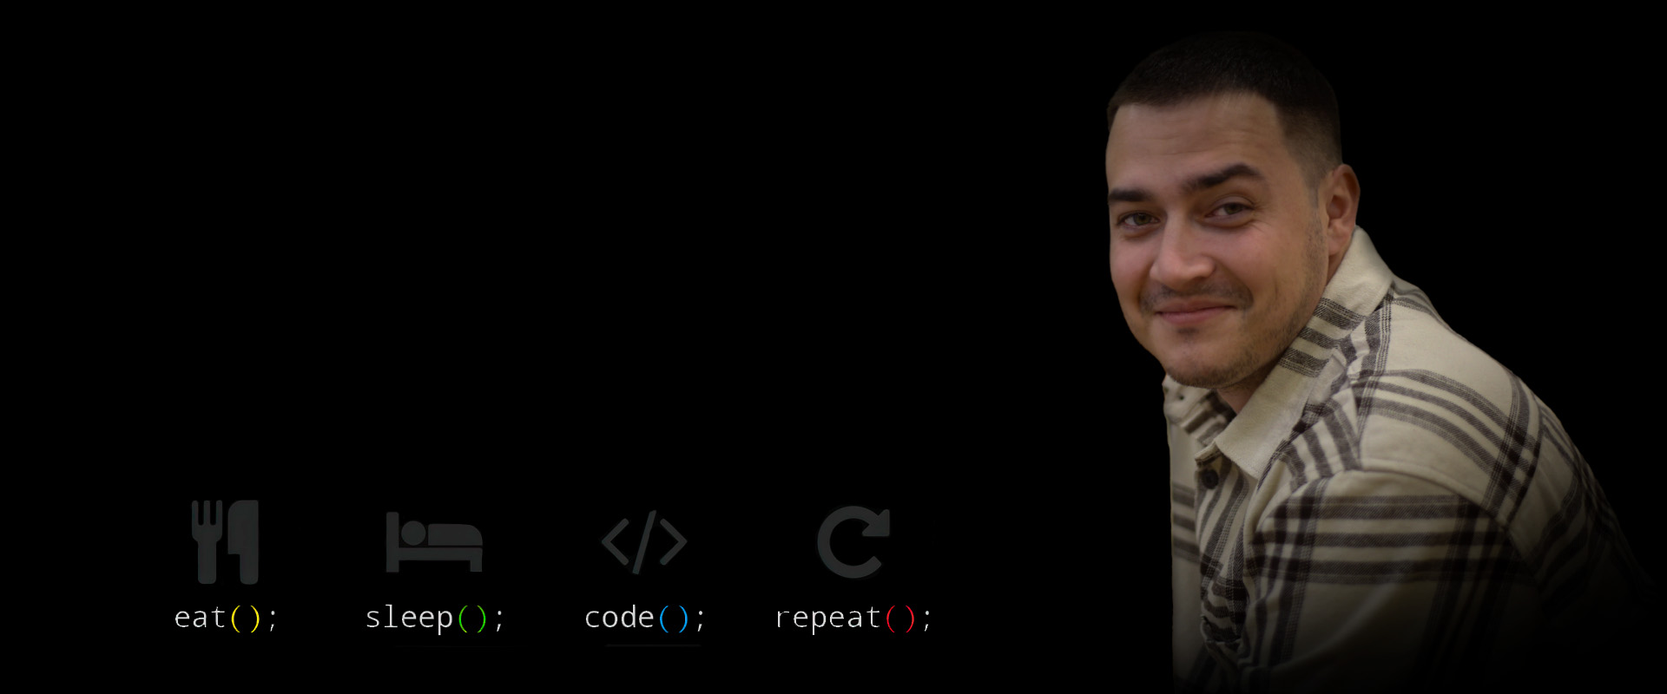
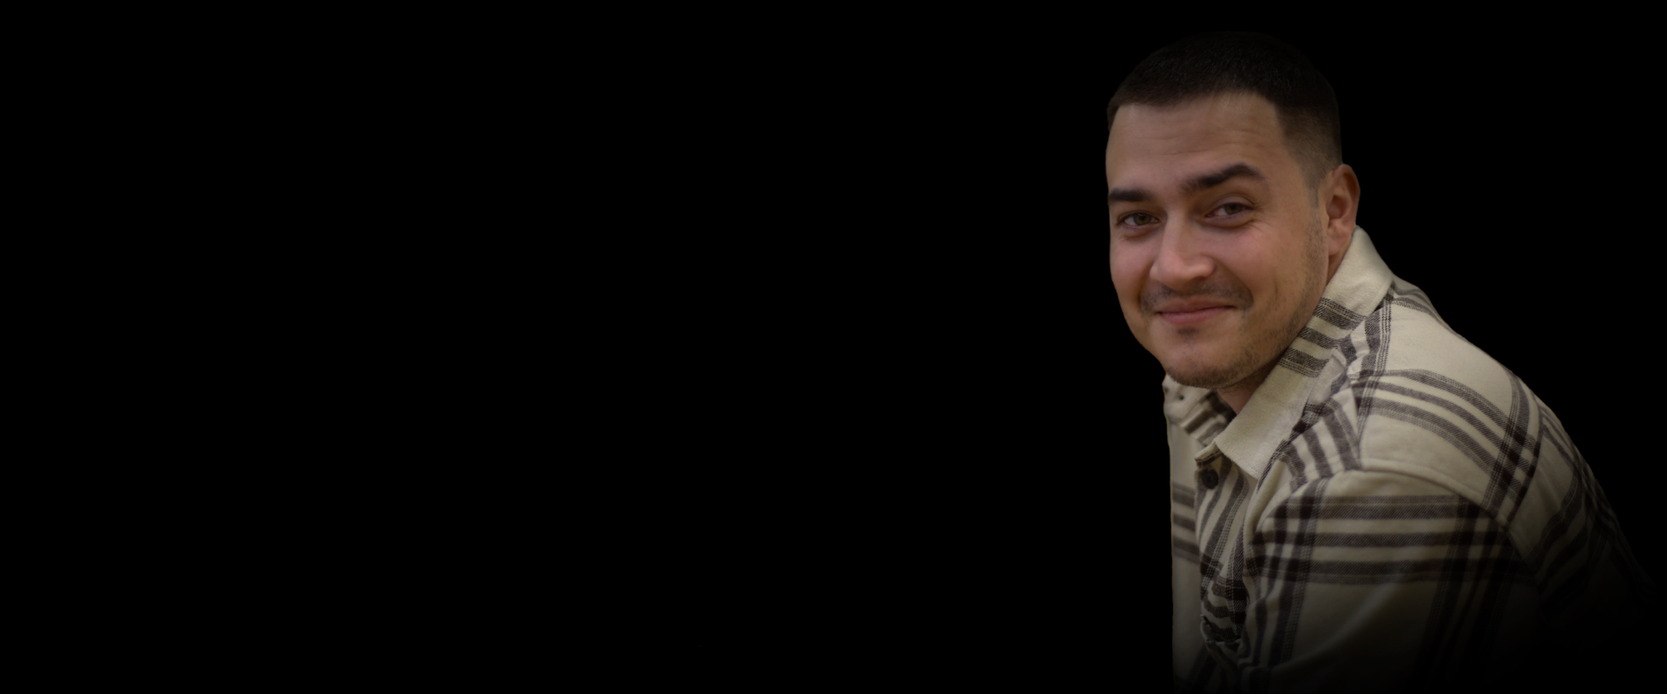
step one+ promo updated

diff --git a/dist/css/style.min.css b/dist/css/style.min.css
@@ -4,4 +4,4 @@
  * Copyright 2011-2019 Twitter, Inc.
  * Licensed under MIT (https://github.com/twbs/bootstrap/blob/master/LICENSE)
  * Forked from Normalize.css, licensed MIT (https://github.com/necolas/normalize.css/blob/master/LICENSE.md)
- */@import url(https://fonts.googleapis.com/css2?family=Poppins:wght@500;700&display=swap);*,::after,::before{box-sizing:border-box}html{font-family:sans-serif;line-height:1.15;-webkit-text-size-adjust:100%;-webkit-tap-highlight-color:rgba(0,0,0,0)}article,aside,figcaption,figure,footer,header,hgroup,main,nav,section{display:block}body{margin:0;font-family:-apple-system,BlinkMacSystemFont,"Segoe UI",Roboto,"Helvetica Neue",Arial,"Noto Sans",sans-serif,"Apple Color Emoji","Segoe UI Emoji","Segoe UI Symbol","Noto Color Emoji";font-size:1rem;font-weight:400;line-height:1.5;color:#212529;text-align:left;background-color:#fff}[tabindex="-1"]:focus{outline:0!important}hr{box-sizing:content-box;height:0;overflow:visible}h1,h2,h3,h4,h5,h6{margin-top:0;margin-bottom:.5rem}p{margin-top:0;margin-bottom:1rem}abbr[data-original-title],abbr[title]{text-decoration:underline;-webkit-text-decoration:underline dotted;text-decoration:underline dotted;cursor:help;border-bottom:0;-webkit-text-decoration-skip-ink:none;text-decoration-skip-ink:none}address{margin-bottom:1rem;font-style:normal;line-height:inherit}dl,ol,ul{margin-top:0;margin-bottom:1rem}ol ol,ol ul,ul ol,ul ul{margin-bottom:0}dt{font-weight:700}dd{margin-bottom:.5rem;margin-left:0}blockquote{margin:0 0 1rem}b,strong{font-weight:bolder}small{font-size:80%}sub,sup{position:relative;font-size:75%;line-height:0;vertical-align:baseline}sub{bottom:-.25em}sup{top:-.5em}a{color:#007bff;text-decoration:none;background-color:rgba(0,0,0,0)}a:hover{color:#0056b3;text-decoration:underline}a:not([href]):not([tabindex]){color:inherit;text-decoration:none}a:not([href]):not([tabindex]):focus,a:not([href]):not([tabindex]):hover{color:inherit;text-decoration:none}a:not([href]):not([tabindex]):focus{outline:0}code,kbd,pre,samp{font-family:SFMono-Regular,Menlo,Monaco,Consolas,"Liberation Mono","Courier New",monospace;font-size:1em}pre{margin-top:0;margin-bottom:1rem;overflow:auto}figure{margin:0 0 1rem}img{vertical-align:middle;border-style:none}svg{overflow:hidden;vertical-align:middle}table{border-collapse:collapse}caption{padding-top:.75rem;padding-bottom:.75rem;color:#6c757d;text-align:left;caption-side:bottom}th{text-align:inherit}label{display:inline-block;margin-bottom:.5rem}button{border-radius:0}button:focus{outline:1px dotted;outline:5px auto -webkit-focus-ring-color}button,input,optgroup,select,textarea{margin:0;font-family:inherit;font-size:inherit;line-height:inherit}button,input{overflow:visible}button,select{text-transform:none}select{word-wrap:normal}[type=button],[type=reset],[type=submit],button{-webkit-appearance:button}[type=button]:not(:disabled),[type=reset]:not(:disabled),[type=submit]:not(:disabled),button:not(:disabled){cursor:pointer}[type=button]::-moz-focus-inner,[type=reset]::-moz-focus-inner,[type=submit]::-moz-focus-inner,button::-moz-focus-inner{padding:0;border-style:none}input[type=checkbox],input[type=radio]{box-sizing:border-box;padding:0}input[type=date],input[type=datetime-local],input[type=month],input[type=time]{-webkit-appearance:listbox}textarea{overflow:auto;resize:vertical}fieldset{min-width:0;padding:0;margin:0;border:0}legend{display:block;width:100%;max-width:100%;padding:0;margin-bottom:.5rem;font-size:1.5rem;line-height:inherit;color:inherit;white-space:normal}progress{vertical-align:baseline}[type=number]::-webkit-inner-spin-button,[type=number]::-webkit-outer-spin-button{height:auto}[type=search]{outline-offset:-2px;-webkit-appearance:none}[type=search]::-webkit-search-decoration{-webkit-appearance:none}::-webkit-file-upload-button{font:inherit;-webkit-appearance:button}output{display:inline-block}summary{display:list-item;cursor:pointer}template{display:none}[hidden]{display:none!important}*{font-family:Poppins,sans-serif;margin:0;padding:0;box-sizing:border-box}.container{width:1140px;margin:0 auto}.promo{position:relative;min-height:100vh;background:url(../../img/main_bg.jpg) center 50%/cover no-repeat;padding-top:206px;z-index:1}.promo_subtitle{position:relative;z-index:1}.promo_subtitle::before{content:"";position:absolute;border-radius:100%;width:36px;height:36px;background:#ffa501;z-index:-1;top:-5px;left:-12px}.promo__btns{margin-top:25px;width:248px;display:flex;justify-content:space-between;align-items:center}.promo__link{display:block;font-weight:700;font-size:14px;color:#111010}.promo__link:hover{color:#111010;text-decoration:none}.promo__link_white{color:#fff}.promo__link_white:hover{color:#fff;text-decoration:none}.title{font-style:normal;font-weight:700;font-size:36px;line-height:60px}.title_fz16px{display:block;margin-left:10px;font-size:16px;line-height:24px;color:#fff}.title_fz48px{margin-top:9px;width:532px;font-size:48px;line-height:60px;color:#fffcfc}.btn{width:135px;height:45px;background:#ffa501;box-shadow:0 4px 4px rgba(0,0,0,.15);padding:12px 25px}.sidepanel-block{position:fixed;z-index:2;top:226px;left:50px;display:flex;flex-direction:column;justify-content:space-between;align-items:center;height:338px}.sidepanel-block__divider{height:70px;width:2px;background-color:#fff}.sidepanel-block__text{color:#fff;height:150px;width:25px;font-weight:700;font-size:16px;margin-top:10px}.sidepanel-block__text span{display:block;width:150px;transform:rotate(-90deg) translate(-30%,-260%)}
+ */@import url(https://fonts.googleapis.com/css2?family=Poppins:wght@500;700&display=swap);*,::after,::before{box-sizing:border-box}html{font-family:sans-serif;line-height:1.15;-webkit-text-size-adjust:100%;-webkit-tap-highlight-color:rgba(0,0,0,0)}article,aside,figcaption,figure,footer,header,hgroup,main,nav,section{display:block}body{margin:0;font-family:-apple-system,BlinkMacSystemFont,"Segoe UI",Roboto,"Helvetica Neue",Arial,"Noto Sans",sans-serif,"Apple Color Emoji","Segoe UI Emoji","Segoe UI Symbol","Noto Color Emoji";font-size:1rem;font-weight:400;line-height:1.5;color:#212529;text-align:left;background-color:#fff}[tabindex="-1"]:focus{outline:0!important}hr{box-sizing:content-box;height:0;overflow:visible}h1,h2,h3,h4,h5,h6{margin-top:0;margin-bottom:.5rem}p{margin-top:0;margin-bottom:1rem}abbr[data-original-title],abbr[title]{text-decoration:underline;-webkit-text-decoration:underline dotted;text-decoration:underline dotted;cursor:help;border-bottom:0;-webkit-text-decoration-skip-ink:none;text-decoration-skip-ink:none}address{margin-bottom:1rem;font-style:normal;line-height:inherit}dl,ol,ul{margin-top:0;margin-bottom:1rem}ol ol,ol ul,ul ol,ul ul{margin-bottom:0}dt{font-weight:700}dd{margin-bottom:.5rem;margin-left:0}blockquote{margin:0 0 1rem}b,strong{font-weight:bolder}small{font-size:80%}sub,sup{position:relative;font-size:75%;line-height:0;vertical-align:baseline}sub{bottom:-.25em}sup{top:-.5em}a{color:#007bff;text-decoration:none;background-color:rgba(0,0,0,0)}a:hover{color:#0056b3;text-decoration:underline}a:not([href]):not([tabindex]){color:inherit;text-decoration:none}a:not([href]):not([tabindex]):focus,a:not([href]):not([tabindex]):hover{color:inherit;text-decoration:none}a:not([href]):not([tabindex]):focus{outline:0}code,kbd,pre,samp{font-family:SFMono-Regular,Menlo,Monaco,Consolas,"Liberation Mono","Courier New",monospace;font-size:1em}pre{margin-top:0;margin-bottom:1rem;overflow:auto}figure{margin:0 0 1rem}img{vertical-align:middle;border-style:none}svg{overflow:hidden;vertical-align:middle}table{border-collapse:collapse}caption{padding-top:.75rem;padding-bottom:.75rem;color:#6c757d;text-align:left;caption-side:bottom}th{text-align:inherit}label{display:inline-block;margin-bottom:.5rem}button{border-radius:0}button:focus{outline:1px dotted;outline:5px auto -webkit-focus-ring-color}button,input,optgroup,select,textarea{margin:0;font-family:inherit;font-size:inherit;line-height:inherit}button,input{overflow:visible}button,select{text-transform:none}select{word-wrap:normal}[type=button],[type=reset],[type=submit],button{-webkit-appearance:button}[type=button]:not(:disabled),[type=reset]:not(:disabled),[type=submit]:not(:disabled),button:not(:disabled){cursor:pointer}[type=button]::-moz-focus-inner,[type=reset]::-moz-focus-inner,[type=submit]::-moz-focus-inner,button::-moz-focus-inner{padding:0;border-style:none}input[type=checkbox],input[type=radio]{box-sizing:border-box;padding:0}input[type=date],input[type=datetime-local],input[type=month],input[type=time]{-webkit-appearance:listbox}textarea{overflow:auto;resize:vertical}fieldset{min-width:0;padding:0;margin:0;border:0}legend{display:block;width:100%;max-width:100%;padding:0;margin-bottom:.5rem;font-size:1.5rem;line-height:inherit;color:inherit;white-space:normal}progress{vertical-align:baseline}[type=number]::-webkit-inner-spin-button,[type=number]::-webkit-outer-spin-button{height:auto}[type=search]{outline-offset:-2px;-webkit-appearance:none}[type=search]::-webkit-search-decoration{-webkit-appearance:none}::-webkit-file-upload-button{font:inherit;-webkit-appearance:button}output{display:inline-block}summary{display:list-item;cursor:pointer}template{display:none}[hidden]{display:none!important}*{font-family:Poppins,sans-serif;margin:0;padding:0;box-sizing:border-box}.container{width:1140px;margin:0 auto}.promo{min-height:100vh;position:relative;padding-top:200px;background:url(../../img/main_bg.jpg) no-repeat 50%/cover}.promo__subtitle{position:relative;padding-left:10px;z-index:2}.promo__subtitle:before{content:"";position:absolute;top:-5px;left:0;width:36px;height:36px;background:#ffa501;border-radius:100%;z-index:-1}.promo__btns{margin-top:25px;width:248px;display:flex;justify-content:space-between;align-items:center}.promo__link{font-weight:700;font-size:14px;line-height:21px;color:#fff}.promo__link:hover{color:#fff;text-decoration:none}.promo__shedule{margin-top:135px;width:700px;display:flex;justify-content:space-between}.promo__item{display:flex;flex-direction:column;justify-content:space-between;align-items:center}.promo__img{width:100px;align-items:center}.promo__text{margin-top:15px;color:#fff;text-align:center;font-size:20px}.promo__text .first{color:#ff0}.promo__text .second{color:green}.promo__text .third{color:#00f}.promo__text .four{color:red}.title{font-weight:700;font-size:36px;line-height:24px;color:#fff}.title_fz16px{font-size:16px}.title_fz48px{margin-top:9px;font-size:48px;line-height:60px}.btn{display:block;width:135px;height:45px;background:#ffa501;padding:12px 25px;border-radius:5%}.btn:hover{box-shadow:5px 5px 0 rgba(216,168,8,.3)}.sidepanel{position:fixed;top:230px;left:50px;z-index:2;height:338px;width:24px;display:flex;flex-direction:column;justify-content:space-between;align-items:center}.sidepanel__divider{height:70px;width:2px;background-color:#fff}.sidepanel__text{font-weight:700;font-size:16px;line-height:24px;color:#f2efef;height:148px;width:24px}.sidepanel__text span{display:block;height:24px;width:148px;transform:rotate(-90deg) translate(-40%,-260%)}

diff --git a/dist/index.html b/dist/index.html
@@ -1,1 +1,1 @@
-<!DOCTYPE html><html lang="ru"><head><meta charset="UTF-8"><meta name="viewport" content="width=device-width,initial-scale=1"><meta http-equiv="X-UA-Compatible" content="ie=edge"><title>Portfolio</title><meta name="title" content="Мое портфолио"><meta name="description" content="Здесь вы сможете ознакомиться с моими работами и узнать больше обо мне"><!-- Open Graph / Facebook --><meta property="og:type" content="website"><meta property="og:url" content="https://metatags.io/"><meta property="og:title" content="Мое портфолио"><meta property="og:description" content="Здесь вы сможете ознакомиться с моими работами и узнать больше обо мне"><meta property="og:image" content="https://metatags.io/assets/meta-tags-16a33a6a8531e519cc0936fbba0ad904e52d35f34a46c97a2c9f6f7dd7d336f2.png"><!-- Twitter --><meta property="twitter:card" content="summary_large_image"><meta property="twitter:url" content="https://metatags.io/"><meta property="twitter:title" content="Мое портфолио"><meta property="twitter:description" content="Здесь вы сможете ознакомиться с моими работами и узнать больше обо мне"><meta property="twitter:image" content="https://metatags.io/assets/meta-tags-16a33a6a8531e519cc0936fbba0ad904e52d35f34a46c97a2c9f6f7dd7d336f2.png"><!-- Favicon  --><link rel="apple-touch-icon" sizes="57x57" href="icons/favicon/apple-icon-57x57.png"><link rel="apple-touch-icon" sizes="60x60" href="icons/favicon/apple-icon-60x60.png"><link rel="apple-touch-icon" sizes="72x72" href="icons/favicon/apple-icon-72x72.png"><link rel="apple-touch-icon" sizes="76x76" href="icons/favicon/apple-icon-76x76.png"><link rel="apple-touch-icon" sizes="114x114" href="icons/favicon/apple-icon-114x114.png"><link rel="apple-touch-icon" sizes="120x120" href="icons/favicon/apple-icon-120x120.png"><link rel="apple-touch-icon" sizes="144x144" href="icons/favicon/apple-icon-144x144.png"><link rel="apple-touch-icon" sizes="152x152" href="icons/favicon/apple-icon-152x152.png"><link rel="apple-touch-icon" sizes="180x180" href="icons/favicon/apple-icon-180x180.png"><link rel="icon" type="image/png" sizes="192x192" href="icons/favicon/android-icon-192x192.png"><link rel="icon" type="image/png" sizes="32x32" href="icons/favicon/favicon-32x32.png"><link rel="icon" type="image/png" sizes="96x96" href="icons/favicon/favicon-96x96.png"><link rel="icon" type="image/png" sizes="16x16" href="icons/favicon/favicon-16x16.png"><link rel="manifest" href="/manifest.json"><meta name="msapplication-TileColor" content="#ffffff"><meta name="msapplication-TileImage" content="/ms-icon-144x144.png"><meta name="theme-color" content="#ffffff"><link rel="stylesheet" href="css/style.min.css"></head><body><main><aside class="sidepanel"><div class="sidepanel-block"><a href="#" class="sidepanel-block__links"><img src="icons/social/facebook.svg" alt="facebook"></a><a href="#" class="sidepanel-block__links"><img src="icons/social/instagram.svg" alt="instagram"></a><a href="#" class="sidepanel-block__links"><img src="icons/social/github.svg" alt="github"></a><div class="sidepanel-block__divider"></div><div class="sidepanel-block__text"><span>Социальные сети</span></div></div></aside><section class="promo"><div class="container"><div class="title title_fz16px promo_subtitle">Меня зовут Андрей Савинов</div><h1 class="title title_fz48px">Я web-разработчик из города Ульяновск</h1><div class="promo__btns"><a href="#" class="promo__link btn">Портфолио</a> <a href="#" class="promo__link promo__link_white">Про меня</a></div></div></section></main><script src="js/script.js"></script></body></html>
+<!DOCTYPE html><html lang="ru"><head><meta charset="UTF-8"><meta name="viewport" content="width=device-width,initial-scale=1"><meta http-equiv="X-UA-Compatible" content="ie=edge"><title>Portfolio</title><meta name="title" content="Мое портфолио"><meta name="description" content="Здесь вы сможете ознакомиться с моими работами и узнать больше обо мне"><!-- Open Graph / Facebook --><meta property="og:type" content="website"><meta property="og:url" content="https://metatags.io/"><meta property="og:title" content="Мое портфолио"><meta property="og:description" content="Здесь вы сможете ознакомиться с моими работами и узнать больше обо мне"><meta property="og:image" content="https://metatags.io/assets/meta-tags-16a33a6a8531e519cc0936fbba0ad904e52d35f34a46c97a2c9f6f7dd7d336f2.png"><!-- Twitter --><meta property="twitter:card" content="summary_large_image"><meta property="twitter:url" content="https://metatags.io/"><meta property="twitter:title" content="Мое портфолио"><meta property="twitter:description" content="Здесь вы сможете ознакомиться с моими работами и узнать больше обо мне"><meta property="twitter:image" content="https://metatags.io/assets/meta-tags-16a33a6a8531e519cc0936fbba0ad904e52d35f34a46c97a2c9f6f7dd7d336f2.png"><!-- Favicon  --><link rel="apple-touch-icon" sizes="57x57" href="icons/favicon/apple-icon-57x57.png"><link rel="apple-touch-icon" sizes="60x60" href="icons/favicon/apple-icon-60x60.png"><link rel="apple-touch-icon" sizes="72x72" href="icons/favicon/apple-icon-72x72.png"><link rel="apple-touch-icon" sizes="76x76" href="icons/favicon/apple-icon-76x76.png"><link rel="apple-touch-icon" sizes="114x114" href="icons/favicon/apple-icon-114x114.png"><link rel="apple-touch-icon" sizes="120x120" href="icons/favicon/apple-icon-120x120.png"><link rel="apple-touch-icon" sizes="144x144" href="icons/favicon/apple-icon-144x144.png"><link rel="apple-touch-icon" sizes="152x152" href="icons/favicon/apple-icon-152x152.png"><link rel="apple-touch-icon" sizes="180x180" href="icons/favicon/apple-icon-180x180.png"><link rel="icon" type="image/png" sizes="192x192" href="icons/favicon/android-icon-192x192.png"><link rel="icon" type="image/png" sizes="32x32" href="icons/favicon/favicon-32x32.png"><link rel="icon" type="image/png" sizes="96x96" href="icons/favicon/favicon-96x96.png"><link rel="icon" type="image/png" sizes="16x16" href="icons/favicon/favicon-16x16.png"><link rel="manifest" href="/manifest.json"><meta name="msapplication-TileColor" content="#ffffff"><meta name="msapplication-TileImage" content="/ms-icon-144x144.png"><meta name="theme-color" content="#ffffff"><link rel="stylesheet" href="css/style.min.css"></head><body><main><aside class="sidepanel"><a href="#" class="sidepanel__link"><img src="icons/social/facebook.svg" alt="facebook_icon" class="sidepanel_img"></a><a href="#" class="sidepanel__link"><img src="icons/social/instagram.svg" alt="instagram_icon" class="sidepanel_img"></a><a href="#" class="sidepanel__link"><img src="icons/social/github.svg" alt="github_icon" class="sidepanel_img"></a><div class="sidepanel__divider"></div><div class="sidepanel__text"><span>Социальные сети</span></div></aside><section class="promo"><div class="container"><div class="title title_fz16px promo__subtitle">Меня зовут Андрей Савинов</div><h1 class="title title_fz48px">Я web-разработчик<br>из города Ульяновск</h1><div class="promo__btns"><a href="#" class="promo__link btn">Портфолио</a> <a href="#" class="promo__link">Про меня</a></div><div class="promo__shedule"><div class="promo__item"><img src="icons/promo/first.svg" alt="icon1" class="promo__img"><div class="promo__text">eat <span class="first">( )</span> ;</div></div><div class="promo__item"><img src="icons/promo/second.svg" alt="icon2" class="promo__img"><div class="promo__text">sleep <span class="second">( )</span> ;</div></div><div class="promo__item"><img src="icons/promo/third.svg" alt="icon3" class="promo__img"><div class="promo__text">code <span class="third">( )</span> ;</div></div><div class="promo__item"><img src="icons/promo/four.svg" alt="icon4" class="promo__img"><div class="promo__text">repeat <span class="four">( )</span> ;</div></div></div></div></section></main><script src="js/script.js"></script></body></html>

diff --git a/src/index.html b/src/index.html
@@ -46,32 +46,45 @@
 <body>
     <main>
         <aside class="sidepanel">
-            <div class="sidepanel-block">
-                <a href="#" class="sidepanel-block__links"><img src="icons/social/facebook.svg" alt="facebook"></a>
-                <a href="#" class="sidepanel-block__links"><img src="icons/social/instagram.svg" alt="instagram"></a>
-                <a href="#" class="sidepanel-block__links"><img src="icons/social/github.svg" alt="github"></a>
-                <div class="sidepanel-block__divider"></div>
-                <div class="sidepanel-block__text"> <span>Социальные сети</span></div>
-            </div>
+            <a href="#" class="sidepanel__link"><img src="icons/social/facebook.svg" alt="facebook_icon" class="sidepanel_img"></a>
+            <a href="#" class="sidepanel__link"><img src="icons/social/instagram.svg" alt="instagram_icon" class="sidepanel_img"></a>
+            <a href="#" class="sidepanel__link"><img src="icons/social/github.svg" alt="github_icon" class="sidepanel_img"></a>
+            <div class="sidepanel__divider"></div>
+            <div class="sidepanel__text"><span>Социальные  сети</span></div>
         </aside>
 
         <section class="promo">
             <div class="container">
-                <div class="title title_fz16px promo_subtitle">Меня зовут Андрей Савинов</div>
-                <h1 class="title title_fz48px">Я web-разработчик из города Ульяновск</h1>
+                <div class="title title_fz16px promo__subtitle">
+                    Меня зовут Андрей Савинов
+                </div>
+                <h1 class="title title_fz48px">Я web-разработчик <br>
+                    из города Ульяновск</h1>
                 <div class="promo__btns">
                     <a href="#" class="promo__link btn">Портфолио</a>
-                    <a href="#" class="promo__link promo__link_white">Про меня</a>
+                    <a href="#" class="promo__link">Про меня</a>
                 </div>
-            </div>
+
+                <div class="promo__shedule">
+                    <div class="promo__item">
+                        <img src="icons/promo/first.svg" alt="icon1" class="promo__img">
+                        <div class="promo__text">eat <span class="first">( )</span> ;</div>
+                    </div>
+                    <div class="promo__item">
+                        <img src="icons/promo/second.svg" alt="icon2" class="promo__img">
+                        <div class="promo__text">sleep <span class="second">( )</span> ;</div>
+                    </div>
+                    <div class="promo__item">
+                        <img src="icons/promo/third.svg" alt="icon3" class="promo__img">
+                        <div class="promo__text">code <span class="third">( )</span> ;</div>
+                    </div>
+                    <div class="promo__item">
+                        <img src="icons/promo/four.svg" alt="icon4" class="promo__img">
+                        <div class="promo__text">repeat <span class="four">( )</span> ;</div>
+                    </div>
+                </div>
+            </div> 
         </section>
-
-
-
-
-
-
-
     </main>
 
     <script src="js/script.js"></script>

diff --git a/src/sass/blocks/_promo.scss b/src/sass/blocks/_promo.scss
@@ -1,37 +1,64 @@
 .promo {
-    position: relative;
     min-height: 100vh;
-    background: url('../../img/main_bg.jpg') center 50%/cover no-repeat;
-    padding-top: 206px;
-    z-index: 1;
-    &_subtitle {
+    position: relative;
+    padding-top: 200px;
+    background: url(../../img/main_bg.jpg) no-repeat 50%/cover;
+    &__subtitle {
         position: relative;
-        z-index: 1;
-        @include orange_circle
+        @include orange_circle;
+        padding-left: 10px;
+        z-index: 2;
     }
     &__btns {
         margin-top: 25px;
         width: 248px;
-        display: flex;
+        display: flex; 
         justify-content: space-between;
         align-items: center;
     }
     &__link {
-        display: block;
         font-weight: 700;
         font-size: 14px;
-        color: #111010;
+        line-height: 21px;
+        color: #FFFFFF;
         &:hover {
-            color: #111010; 
-            text-decoration: none;  
+            color: #ffffff;
+            text-decoration: none;
         }
-        &_white {
-            color:#ffff;
-            &:hover {
-                color: #ffff; 
-                text-decoration: none;  
-            }
-        }   
-        
     }
+    &__shedule {
+        margin-top: 135px;
+        width: 700px;
+        display: flex;
+        justify-content: space-between;
+    }
+    &__item {
+        display: flex;
+        flex-direction: column;
+        justify-content: space-between;
+        align-items: center;
+    }
+    &__img {
+        width: 100px;
+        align-items: center;
+    }
+    &__text {
+        margin-top: 15px;
+        color: #ffffff;
+        text-align: center;
+        font-size: 20px;
+        .first {
+            color: yellow;
+        }
+        .second {
+            color: green;
+        }
+        .third {
+            color: blue;
+        }
+        .four {
+            color: red;
+        }
+    }
+
 }

diff --git a/src/sass/blocks/_sidepanel.scss b/src/sass/blocks/_sidepanel.scss
@@ -1,31 +1,31 @@
 .sidepanel {
-    &-block {
-        position: fixed;
-        z-index: 2;
-        top: 226px;
-        left: 50px;
-        display: flex;
-        flex-direction: column;
-        justify-content: space-between;
-        align-items: center;
-        height: 338px;
-        &__divider {
-            height: 70px;
-            width: 2px;
-            background-color: #fff;
-        }
-        &__text {
-            color:#fff;
-            height: 150px;
-            width: 25px;
-            font-weight: 700;
-            font-size: 16px;
-            margin-top: 10px;
-            span {
-                display: block;
-                width: 150px;
-                transform: rotate(-90deg) translate(-30%, -260%);
-            }
+    position: fixed;
+    top: 230px;
+    left: 50px;
+    z-index: 2;
+    height: 338px;
+    width: 24px;
+    display: flex;
+    flex-direction: column;
+    justify-content: space-between;
+    align-items: center;
+    &__divider {
+        height: 70px;
+        width: 2px;
+        background-color: #fff;
+    }
+    &__text {
+        font-weight: 700;
+        font-size: 16px;
+        line-height: 24px;
+        color: #F2EFEF;
+        height: 148px;
+        width: 24px;
+        span {
+            display: block;
+            height: 24px;
+            width: 148px;
+            transform: rotate(-90deg) translate(-40%,-260%);
         }
     }
 }

diff --git a/src/sass/blocks/_title.scss b/src/sass/blocks/_title.scss
@@ -1,20 +1,14 @@
 .title {
-    font-style: normal;
     font-weight: 700;
-    font-size: 36px;
-    line-height: 60px;
+    font-size:36px;
+    line-height: 24px;
+    color: #FFFFFF;
     &_fz16px {
-        display: block;
-        margin-left: 10px;
         font-size: 16px;
-        line-height: 24px;
-        color: #FFFFFF;
     }
     &_fz48px {
         margin-top: 9px;
-        width: 532px;
         font-size: 48px;
         line-height: 60px;
-        color: #FFFCFC;
     }
 }

diff --git a/src/sass/base/_mixins.scss b/src/sass/base/_mixins.scss
@@ -1,13 +1,13 @@
 @mixin orange_circle {
-    &::before {
+    &:before {
         content: '';
         position: absolute;
-        border-radius: 100%;
+        top: -5px;
+        left: 0;
         width: 36px;
         height: 36px;
-        background: $main-color;
+        background: $main_color;
+        border-radius: 100%;
         z-index: -1;
-        top: -5px;
-        left: -12px;
-    }    
+    }
 }

diff --git a/src/sass/blocks/_buttons.scss b/src/sass/blocks/_buttons.scss
@@ -1,0 +1,11 @@
+.btn {
+    display: block;
+    width: 135px;
+    height: 45px;
+    background: $main_color;
+    padding: 12px 25px;
+    border-radius: 5%;
+    &:hover {
+        box-shadow: 5px 5px 0px rgba(216, 168, 8, 0.3);
+    }
+}

diff --git a/src/sass/style.scss b/src/sass/style.scss
@@ -18,5 +18,7 @@
 @import 'base/mixins';
 @import 'blocks/promo';
 @import 'blocks/title';
-@import 'blocks/btn';
+@import 'blocks/buttons';
 @import 'blocks/sidepanel';
+
+

diff --git a/src/sass/base/_variables.scss b/src/sass/base/_variables.scss
@@ -1,1 +1,2 @@
-$main-color: #FFA501;
+$main_color: #FFA501;
+   
